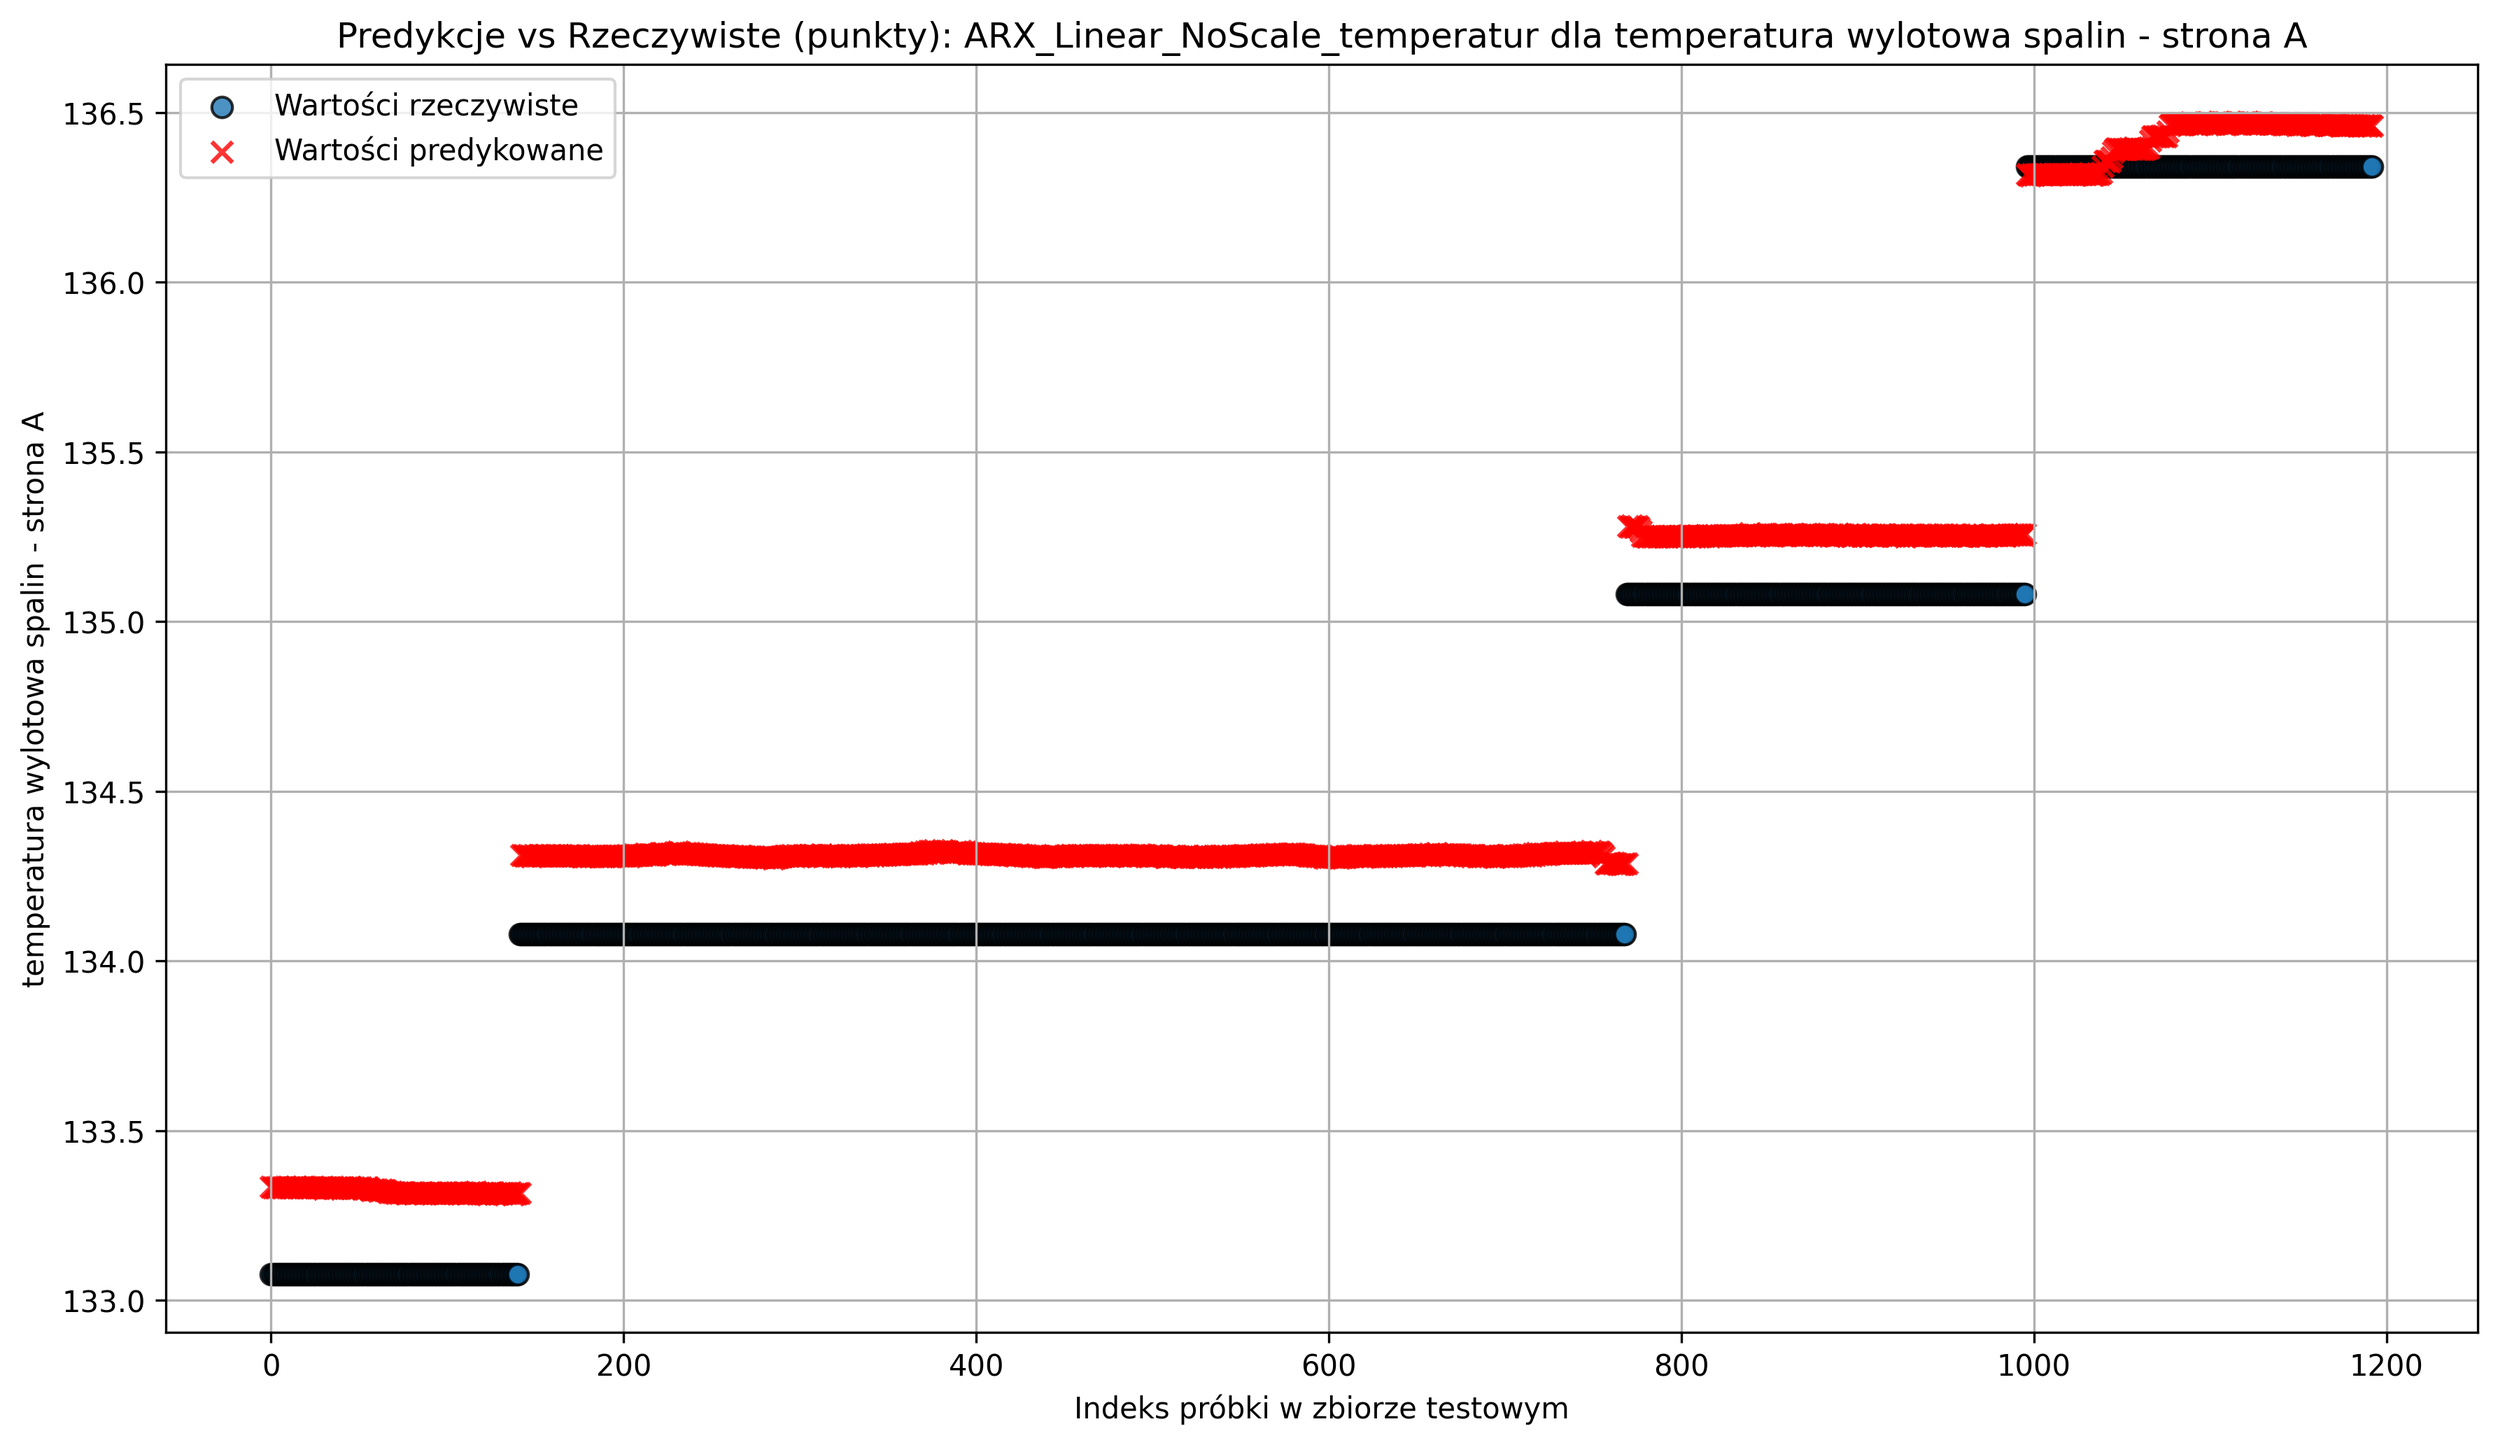
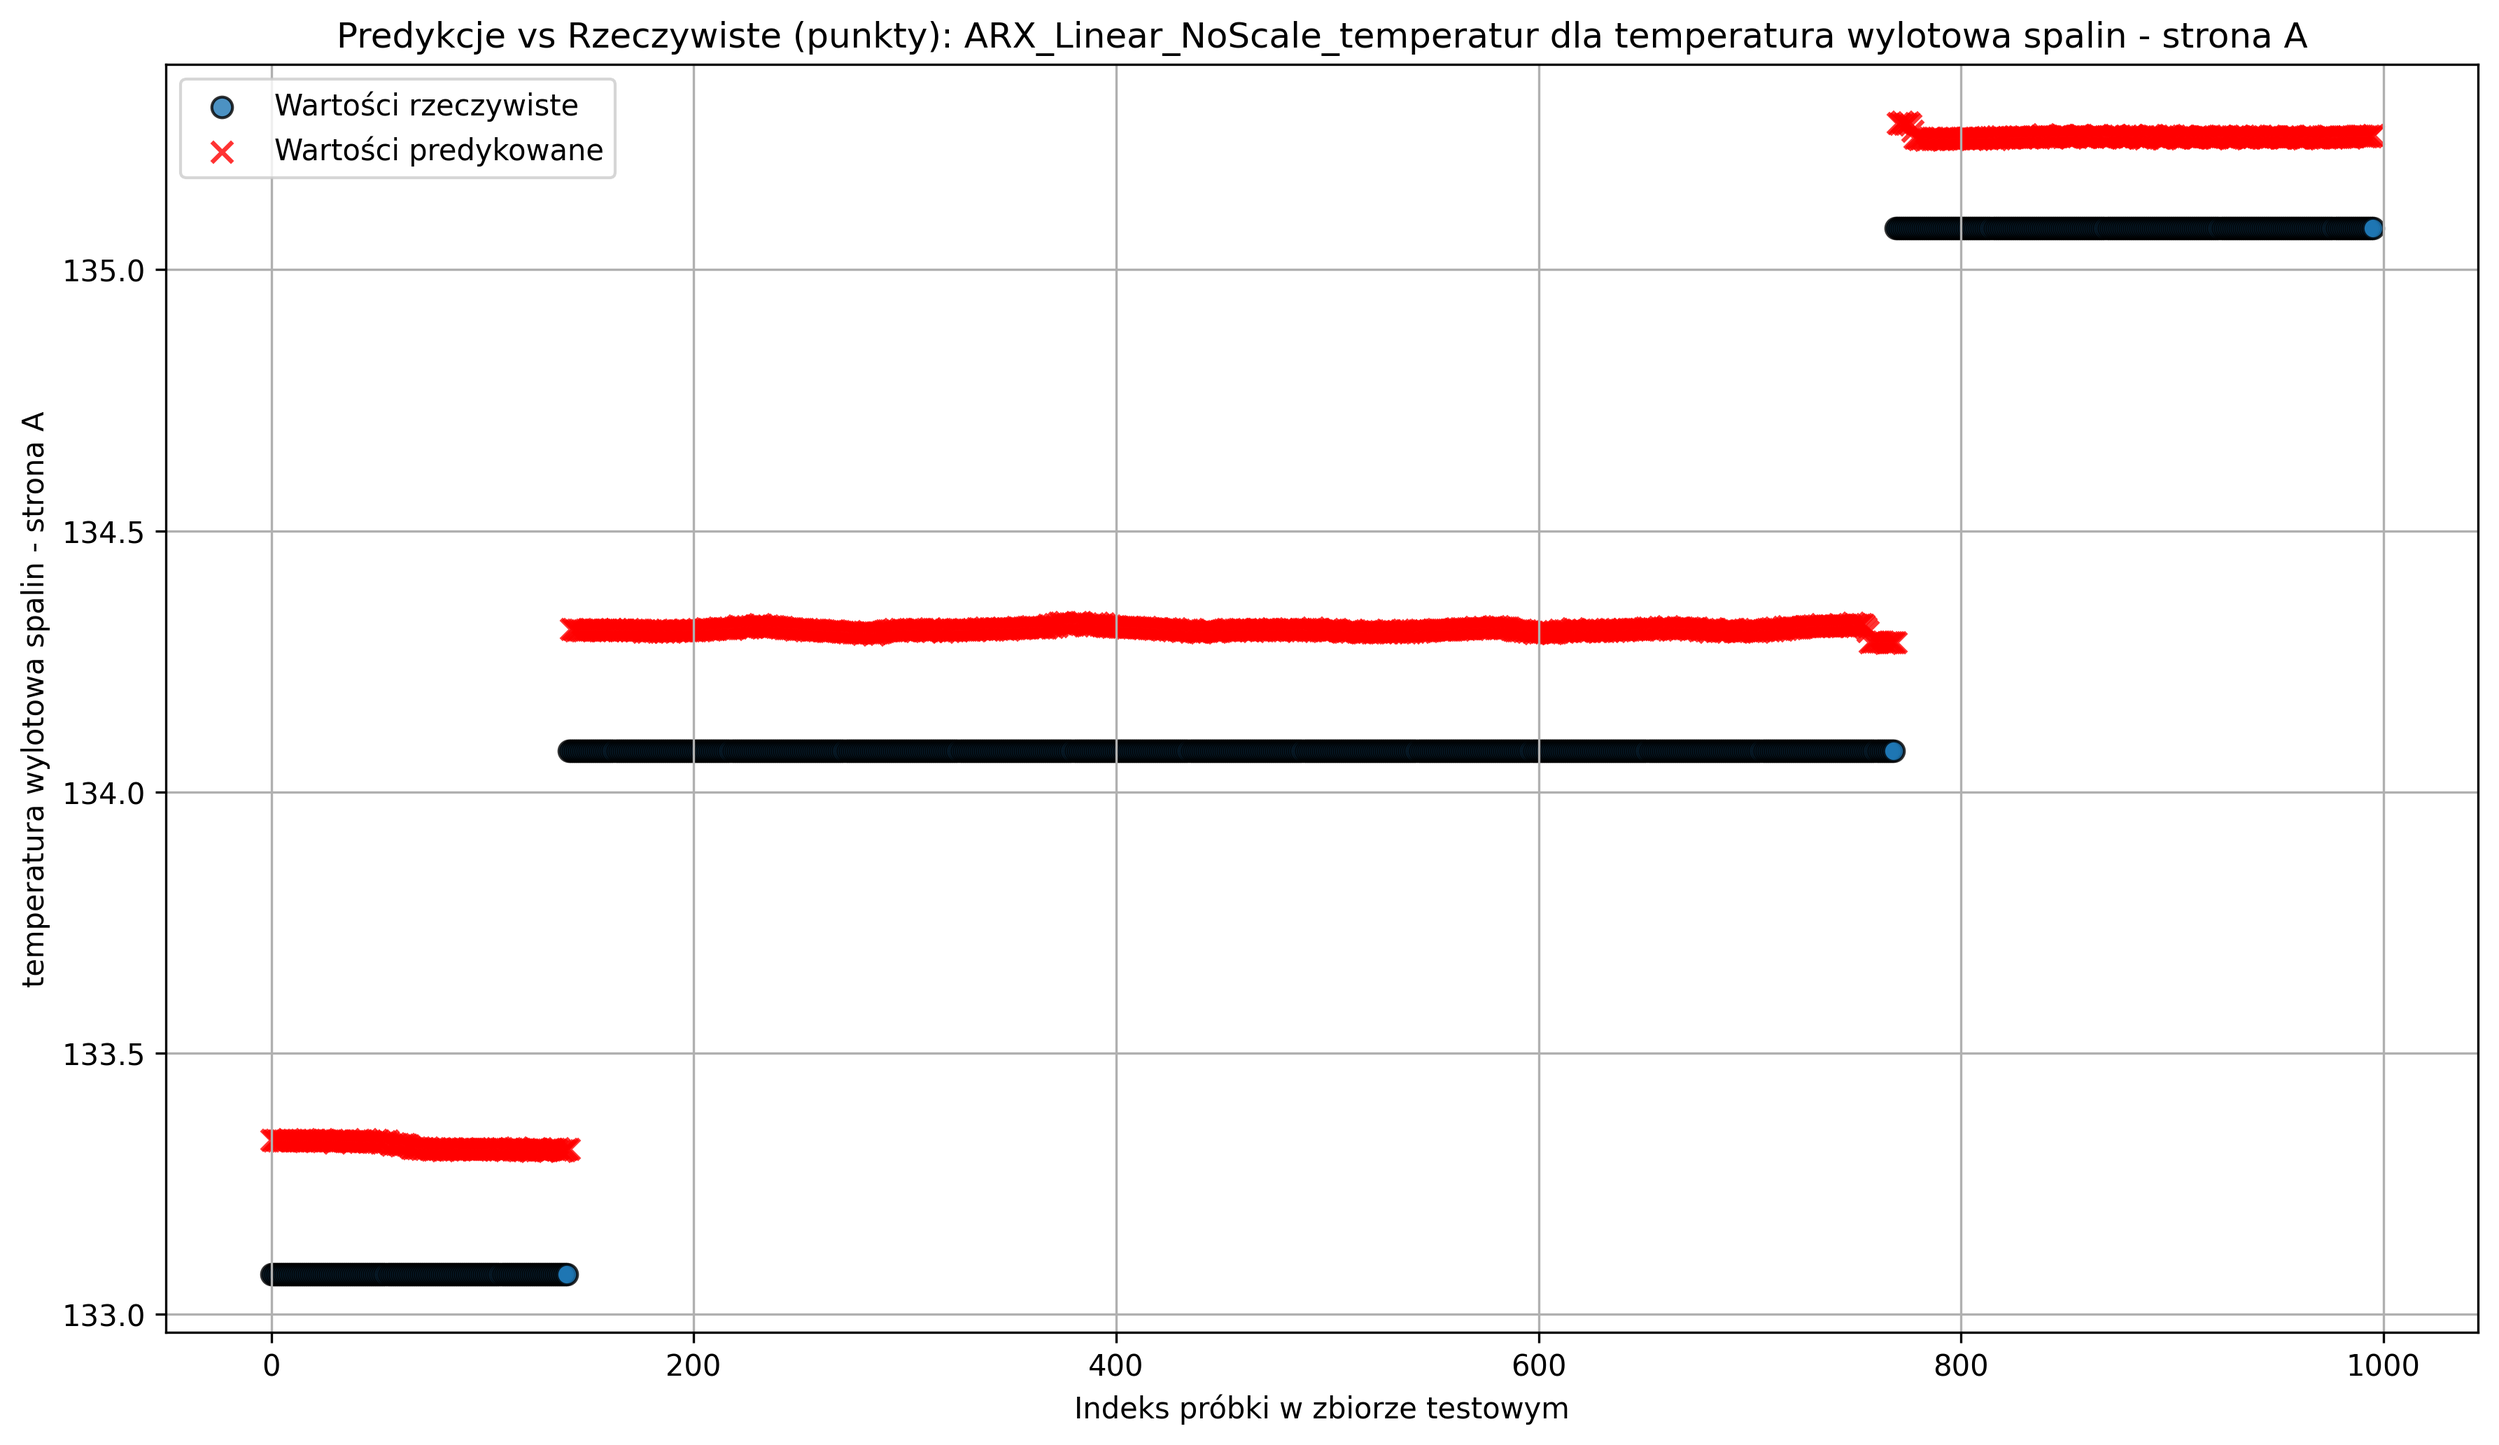
working linear arx

diff --git a/src/main.py b/src/main.py
@@ -216,7 +216,7 @@ def main():
         }
 
         TRAIN_DAYS = ['d2', 'd3']
-        TEST_DAYS = ['d5', 'd6']
+        TEST_DAYS = ['d5']
 
         # Pętla trenująca osobny model dla każdego celu
         for target_col, input_features in targets_and_features_arx.items():
